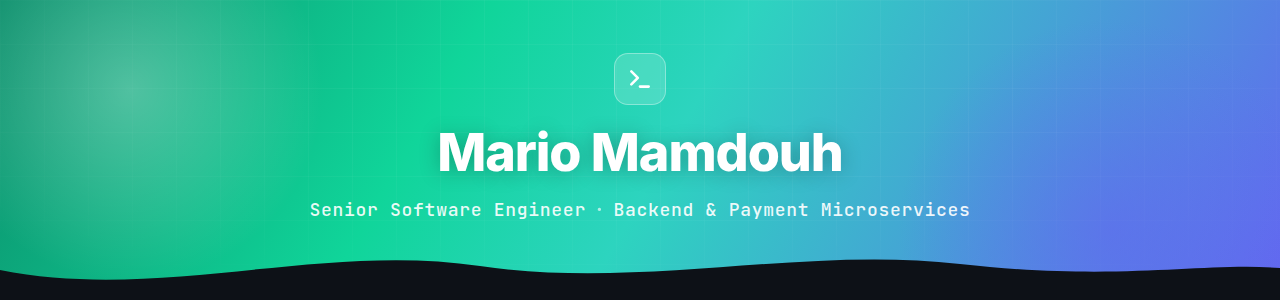
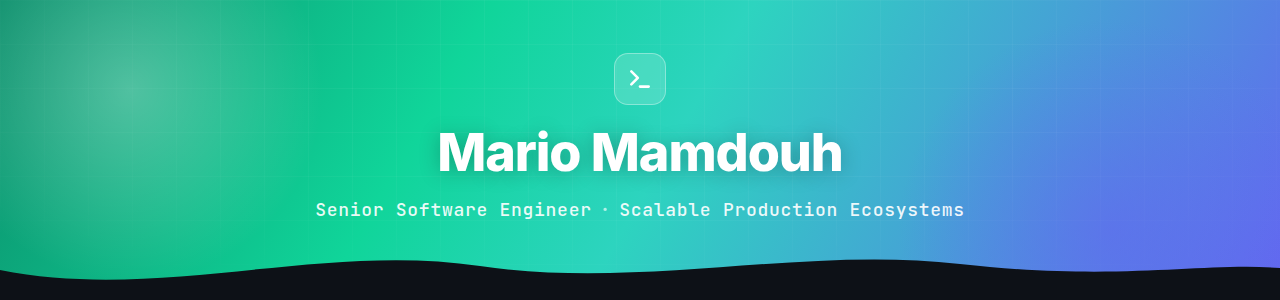
Broaden positioning to scalable full-stack ecosystems
Reframe header banner, typing lines, and About Me from backend/payments-first
to Senior Software Engineer building scalable production ecosystems end-to-end
(payments/backend now presented as proven strengths, not the whole scope).

Changed region(s): [[0.2188, 0.66, 0.7812, 0.72]]

diff --git a/README.md b/README.md
@@ -5,7 +5,7 @@
 </p>
 
 <p align="center">
-  <img src="https://readme-typing-svg.demolab.com?font=JetBrains+Mono&weight=600&size=22&pause=1000&color=10D59A&center=true&vCenter=true&width=620&lines=5%2B+years+building+production+systems;PHP+%C2%B7+Laravel+%C2%B7+Yii2+%C2%B7+Node.js+%C2%B7+NestJS;Payments+%7C+Banking+APIs+%7C+Cloud-Native+Delivery" alt="Typing SVG" />
+  <img src="https://readme-typing-svg.demolab.com?font=JetBrains+Mono&weight=600&size=22&pause=1000&color=10D59A&center=true&vCenter=true&width=640&lines=Senior+Software+Engineer;Building+scalable+production+ecosystems;Full-Stack+%C2%B7+Cloud-Native+%C2%B7+End-to-End" alt="Typing SVG" />
 </p>
 
 <!-- ======================= SOCIAL ======================= -->
@@ -22,12 +22,12 @@
 
 <img align="right" width="290" src="https://raw.githubusercontent.com/mario237/mario237/main/assets/profile.png" alt="Mario Mamdouh" />
 
-Senior Software Engineer with **5+ years** architecting, building, and scaling high-performance backend systems, payment microservices, and full-stack web platforms. Expert in **PHP (Laravel, Yii2)** with a proven record of leading complex integrations — payment gateways, banking APIs, and accounting systems — and shipping cloud-native services on **GCP & AWS**.
+Senior Software Engineer with **5+ years** designing, building, and scaling **production-grade software ecosystems end-to-end** — from intuitive front-ends to resilient backends, data layers, and cloud infrastructure. I turn complex requirements into reliable, maintainable systems that ship and scale.
 
-- 🔭 Currently **Senior Software Engineer @ Evolvice GmbH**, architecting the Ynmo payment platform
-- 💳 I specialize in **payments & banking integrations** — MyFatoorah, Tabby BNPL, PayPal, STC Bank (OAuth2/mTLS)
-- ☁ I ship secure, multi-tenant, **bilingual (AR/EN)** products at scale across the Gulf & MENA
-- 🧭 I own delivery end-to-end — from architecture to production, mentoring, and engineering standards
+- 🔭 Currently **Senior Software Engineer @ Evolvice GmbH**, building scalable multi-tenant products
+- 🧱 I architect **complete systems** — APIs & microservices, front-ends, databases, and cloud infra
+- 💳 Proven on complex, high-stakes integrations — **payments, banking & accounting APIs** (MyFatoorah, Tabby, STC Bank)
+- ☁ **Cloud-native delivery** — GCP/AWS, Docker & Kubernetes, CI/CD — secure & bilingual (AR/EN), at scale
 - 📫 Reach me at **mariomamdouh237@gmail.com** · 🌍 Based in **Cairo, Egypt** 🇪🇬
 
 <br clear="both" />
